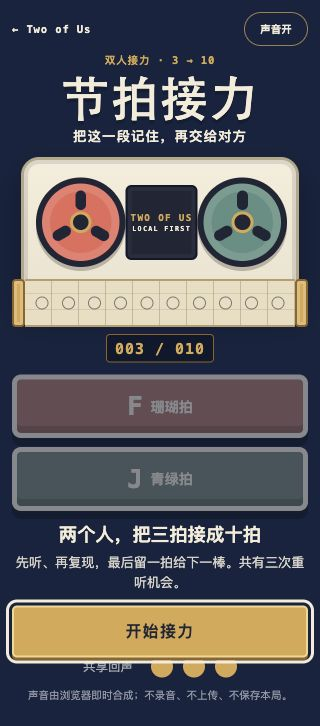
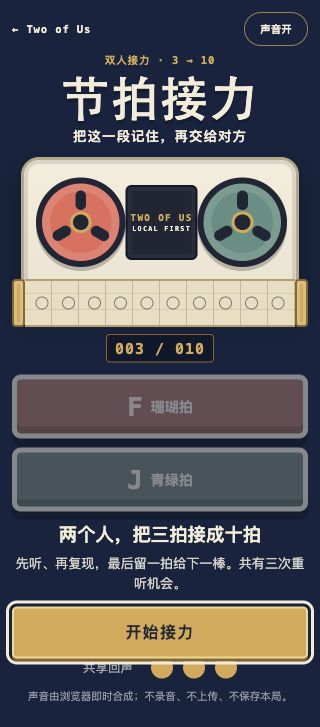
fix: preserve rhythm relay touch target

diff --git a/experiences/co-op/rhythm-relay/styles.css b/experiences/co-op/rhythm-relay/styles.css
@@ -341,7 +341,7 @@ noscript { display: block; margin-top: 20px; color: #ffd0c8; text-align: center;
   .machine-readout { grid-template-columns: 1fr; }
   .machine-readout strong { justify-self: center; }
   .beat-controls { grid-template-columns: 1fr; gap: 9px; }
-  .beat-button { min-height: 58px; }
+  .beat-button { min-height: 64px; }
   .privacy { font-size: .66rem; }
 }
 

diff --git a/bugs/2026-07-17-rhythm-relay-narrow-touch-height.md b/bugs/2026-07-17-rhythm-relay-narrow-touch-height.md
@@ -1,0 +1,46 @@
+# 节拍接力：320px 窄屏拍键低于触控高度承诺
+
+## 状态
+
+已修复，2026-07-17。
+
+## 发现版本
+
+- 作品首版：`2aac7fd`
+- 启动等级：A；真实浏览器验收通过本机静态服务加载同一组相对资源
+
+## 复现条件
+
+1. 在 Chrome 中以 320×700 内容区打开「节拍接力」；
+2. 保持初始页，读取两枚 `.beat-button` 的 `getBoundingClientRect().height`；
+3. 首版两枚拍键实测均约为 `63.60px`。
+
+## 预期结果
+
+规格要求触控拍键至少 64px 高；320px 窄屏可以纵向滚动，但不能为了塞进首屏继续压缩核心输入。
+
+## 实际结果
+
+`max-width: 330px` 媒体查询把 `.beat-button` 的 `min-height` 从常规移动端的 72px 覆盖为 58px。按钮内部内容与边框把最终高度撑到约 63.60px，视觉上近似达标，但仍低于可机器验证的 64px 契约。
+
+## 根因
+
+窄屏规则只按页面总高度压缩，没有把核心触控目标的下限作为不可继续压缩的约束；依靠内容自然撑高还会受到字体度量与子像素舍入影响。
+
+## 解决方案
+
+- 将 330px 及以下的 `.beat-button` 明确设为 `min-height: 64px`；
+- 保留单列按钮与纵向滚动，不压缩文字或隐藏输入；
+- 仍以浏览器实测矩形验收，而不是从 CSS 声明推断最终高度。
+
+## 回归验证
+
+- [x] 320×700 下两枚拍键实测高度均不低于 64px
+- [x] `scrollWidth === innerWidth === 320`，无横向溢出
+- [x] 主动作仍完整可见，允许页面产生少量纵向滚动
+- [x] `npm test` 与 `npm run verify` 通过
+- [x] 浏览器控制台无 warning 或 error
+
+## 相关提交
+
+- 见本文件所在的窄屏触控修复提交。

diff --git a/bugs/README.md b/bugs/README.md
@@ -8,6 +8,7 @@
 
 ## 已记录
 
+- [节拍接力：320px 窄屏拍键低于触控高度承诺](./2026-07-17-rhythm-relay-narrow-touch-height.md)
 - [语音 WASM 缺堆导出、目标识别与预热线程池](./2026-07-17-speech-wasm-build-runtime-contract.md)
 - [浏览器资产更新会误判已安装模型不兼容](./2026-07-17-capability-receipt-non-artifact-drift.md)
 - [语音 Worker 资产缺少 COEP 导致 pthread 启动失败](./2026-07-17-speech-worker-missing-coep.md)
